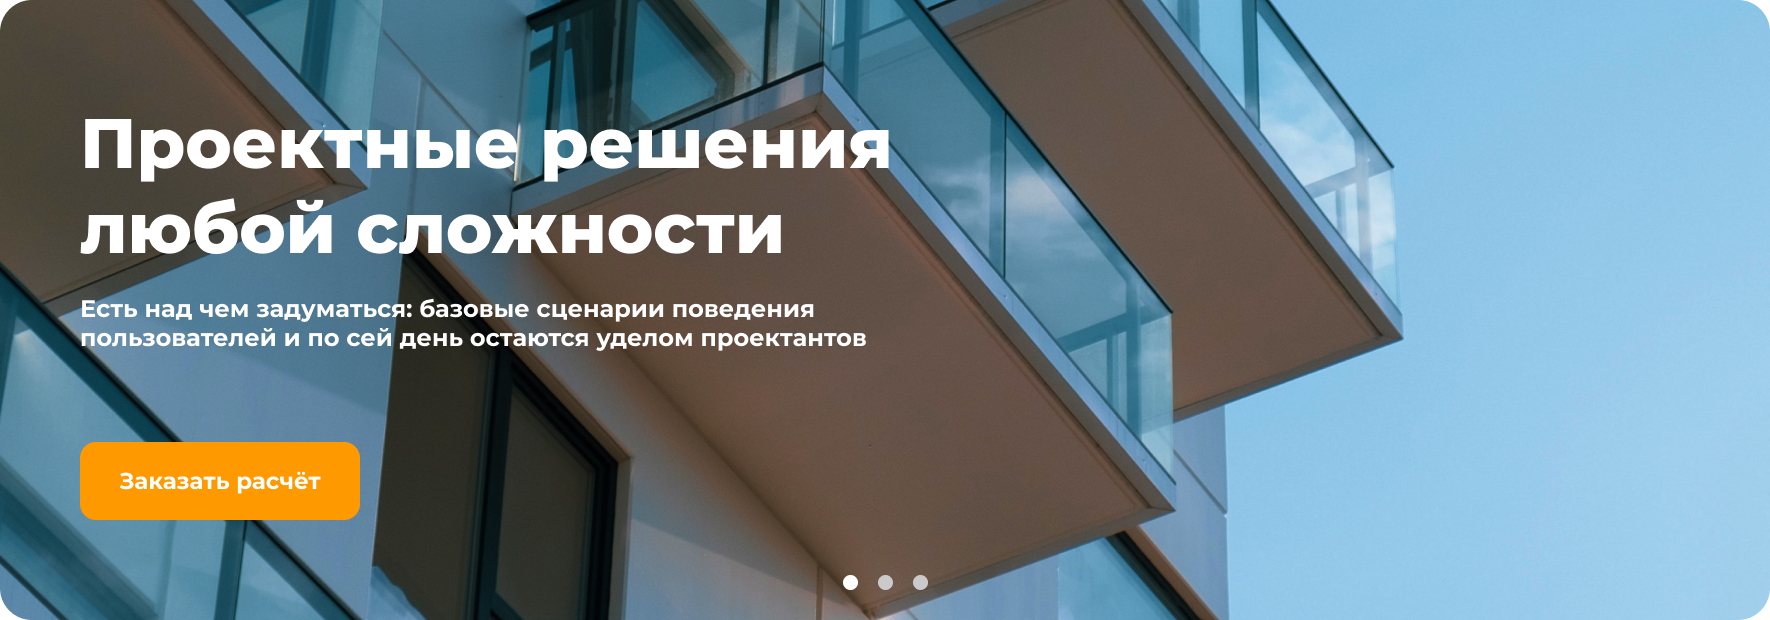
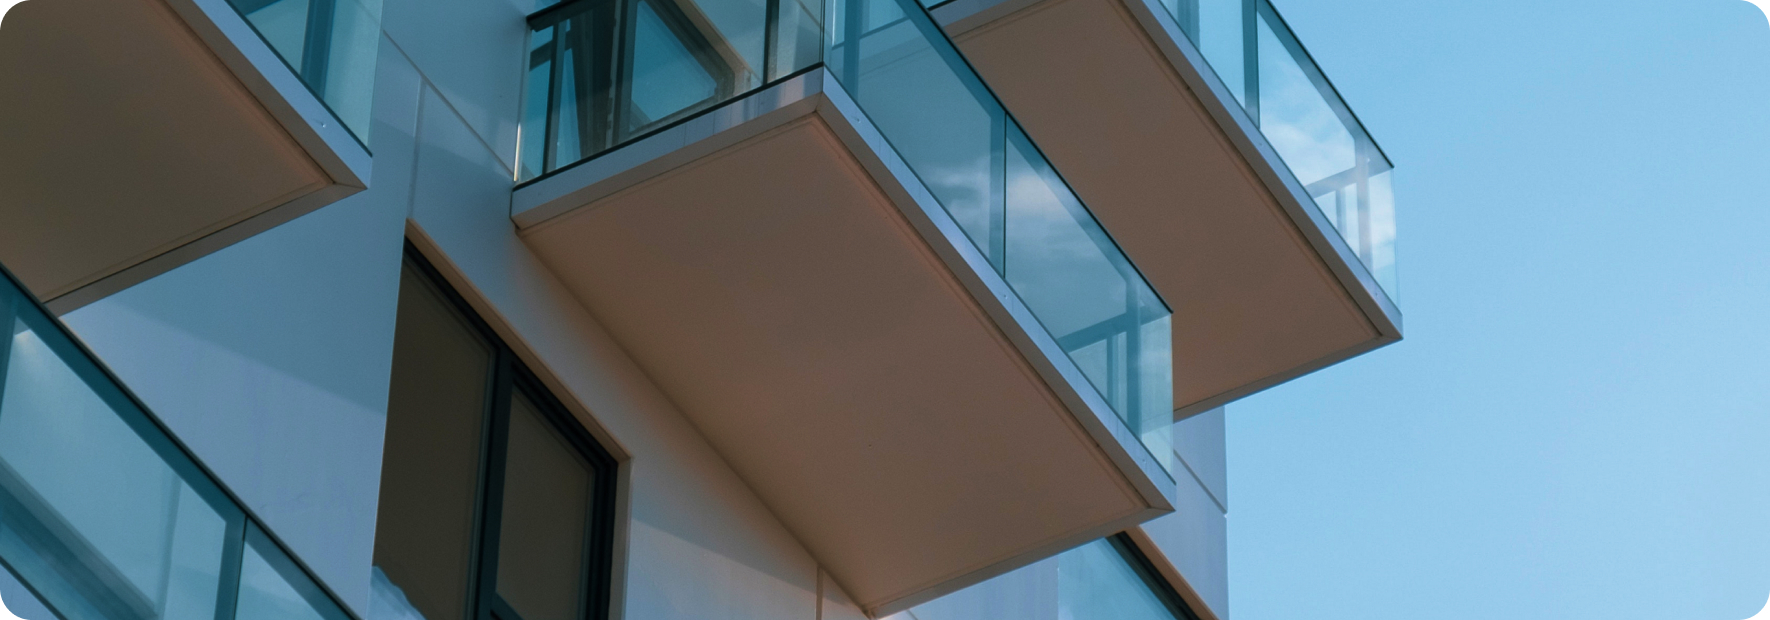
закончил слайдер

diff --git a/css/main.css b/css/main.css
@@ -113,6 +113,11 @@ textarea {
   margin: 0 auto;
 }
 
+.btn {
+  padding: 20px 38px;
+  border-radius: 16px;
+}
+
 /* HEADER */
 
 .header {
@@ -142,9 +147,6 @@ textarea {
   margin-right: 85px;
 }
 
-.nav-item:not(:last-child) {
-}
-
 .nav-link {
   font-style: normal;
   font-weight: 600;
@@ -160,9 +162,8 @@ textarea {
 
 .container-hero {
   position: relative;
-  height: 300px;
   overflow: hidden;
-  background-color: aquamarine;
+  border-radius: 32px;
 }
 
 .swiper {
@@ -171,5 +172,78 @@ textarea {
   top: 0;
   width: 100%;
   height: 100%;
-  background-color: red;
+}
+
+.swiper-img {
+  display: block;
+  width: 100%;
+  height: 100%;
+  object-fit: cover;
+}
+
+.swiper-pagination-bullet {
+  width: 15px;
+  height: 15px;
+  background-color: var(--light-grey);
+}
+
+.swiper-horizontal > .swiper-pagination-bullets,
+.swiper-pagination-bullets.swiper-pagination-horizontal,
+.swiper-pagination-custom,
+.swiper-pagination-fraction {
+  bottom: 0;
+  left: 10px;
+  margin-bottom: 25px;
+}
+
+.swiper-horizontal > .swiper-pagination-bullets .swiper-pagination-bullet,
+.swiper-pagination-horizontal.swiper-pagination-bullets
+  .swiper-pagination-bullet:not(:last-child) {
+  margin: 0;
+  margin-right: 20px;
+}
+
+.hero-content {
+  position: relative;
+  top: 0;
+  max-width: 895px;
+  padding-top: 100px;
+  padding-bottom: 80px;
+  padding-left: 80px;
+  z-index: 2;
+  pointer-events: none;
+}
+
+.hero-title {
+  margin-bottom: 24px;
+  font-weight: 800;
+  font-size: 70px;
+  line-height: 85px;
+  color: var(--white);
+}
+
+.hero-descr {
+  margin-bottom: 90px;
+  font-weight: 700;
+  font-size: 24px;
+  line-height: 29px;
+  color: var(--white);
+}
+
+.hero-btn {
+  padding: 24px 38px;
+  margin-bottom: 20px;
+  font-weight: 700;
+  font-size: 23px;
+  line-height: 28px;
+  text-align: center;
+  color: var(--white);
+  background: var(--orange);
+  border-radius: 16px;
+  pointer-events: all;
+  cursor: pointer;
+}
+
+.footer {
+  margin-bottom: 500px;
 }

diff --git a/index.html b/index.html
@@ -50,13 +50,25 @@
                     <!-- Additional required wrapper -->
                     <div class="swiper-wrapper">
                         <!-- Slides -->
-                        <div class="swiper-slide">Slide 1</div>
-                        <div class="swiper-slide">Slide 2</div>
-                        <div class="swiper-slide">Slide 3</div>
+                        <div class="swiper-slide">
+                            <img class="swiper-img" src="./img/img_1920/about_1.jpg" alt="Слайд 1">
+                        </div>
+                        <div class="swiper-slide">
+                            <img class="swiper-img" src="./img/img_1920/about_2.jpg" alt="Слайд 2">
+                        </div>
+                        <div class="swiper-slide">
+                            <img class="swiper-img" src="./img/img_1920/about_3.jpg" alt="Слайд 3">
+                        </div>
                         ...
                     </div>
                     <!-- If we need pagination -->
                     <div class="swiper-pagination"></div>
+                </div>
+                <div class="hero-content">
+                    <h1 class="hero-title">Проектные решения любой сложности</h1>
+                    <p class="hero-descr">Есть над чем задуматься: базовые сценарии поведения пользователей и по сей
+                        день остаются уделом проектантов</p>
+                    <button id="btn" class="btn hero-btn">Заказать расчёт</button>
                 </div>
             </div>
         </section>

diff --git a/js/main.js b/js/main.js
@@ -12,3 +12,9 @@ const swiper = new Swiper(".swiper", {
     paginationBulletMessage: "Слайд {{index}}",
   },
 });
+
+let gg = document.getElementsByClassName("hero-btn");
+
+gg.btn.addEventListener("click", () => {
+  console.log("object");
+});
